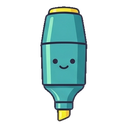
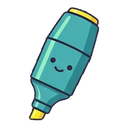
feat: Update mascot images and enhance UI elements in sidebar

Changed region(s): [[0.2188, 0.0312, 0.7812, 0.9688]]

diff --git a/vite-extension/tests/e2e/penny-mascot-artwork.spec.js b/vite-extension/tests/e2e/penny-mascot-artwork.spec.js
@@ -1,0 +1,53 @@
+// @ts-check
+/**
+ * E2E coverage for the Penny mascot artwork wired into the sidebar UI
+ * (onboarding modal, both empty states, and the delete-confirmation modal).
+ * Not tied to a numbered harness feature — it's a branding asset swap — but
+ * each spot is a new <img> in real DOM (sidebar.html/vista.js/sidebar.js/
+ * modal.js), so per CLAUDE.md's testing rule it gets real specs instead of
+ * only a manual check: only a real extension page proves Vite/CRXJS actually
+ * resolved and shipped each asset path, which Vitest/jsdom never loads.
+ */
+import { test, expect } from "./fixtures.js";
+
+/** Asserts an <img> inside `locator` is visible and actually loaded a real image. */
+async function expectLoadedImage(locator) {
+  await expect(locator).toBeVisible();
+  const naturalWidth = await locator.evaluate(
+    (img) => /** @type {HTMLImageElement} */ (img).naturalWidth
+  );
+  expect(naturalWidth).toBeGreaterThan(0);
+}
+
+test.beforeEach(async ({ page, extensionId }) => {
+  await page.goto(`chrome-extension://${extensionId}/src/sidebar.html`);
+});
+
+test("onboarding modal renders the confused-Penny mascot", async ({ page }) => {
+  // fixtures.js auto-dismisses the modal that opens on first visit; reopen
+  // it deliberately via the rail's "?" button.
+  await page.locator("#onboarding-help-btn").click();
+  const dialog = page.locator("#onboarding-modal");
+  await expect(dialog).toBeVisible();
+  await expectLoadedImage(dialog.locator(".onboarding-mascot"));
+});
+
+test("no-contexts empty state renders the waving-Penny mascot", async ({ page }) => {
+  // Fresh profile: chrome.storage.local starts with `contexts: {}`.
+  await expectLoadedImage(page.locator("#body .state-mascot"));
+  await expect(page.locator("#body .title")).toHaveText("Sin contextos todavía");
+});
+
+test("empty-context vista renders the drawing-Penny mascot", async ({ page }) => {
+  await page.locator("#rail-add").click();
+  await expectLoadedImage(page.locator("#body .state-mascot"));
+  await expect(page.locator("#body .title")).toHaveText("Contexto vacío");
+});
+
+test("delete-confirmation modal renders the warning-Penny mascot", async ({ page }) => {
+  await page.locator("#rail-add").click();
+  await page.locator(".rail-chip-del").click();
+  const dialog = page.locator("#confirm-delete-modal");
+  await expect(dialog).toBeVisible();
+  await expectLoadedImage(dialog.locator(".modal-mascot"));
+});

diff --git a/vite-extension/src/sidebar.js b/vite-extension/src/sidebar.js
@@ -12,7 +12,8 @@
  * Data flows through chrome.storage.local, accessed via store.js (Store).
  * ---------------------------------------------------------------------------
  */
-import { createElement, Sparkles, Download, ChevronDown } from "lucide";
+import { createElement, Download, ChevronDown } from "lucide";
+import pennyWaving from "./assets/penny-waving.png";
 import { $ } from "./sidebar/dom.js";
 import { Store } from "./sidebar/store.js";
 import { initTheme } from "./sidebar/theme.js";
@@ -217,18 +218,17 @@ async function renderMain() {
     ctxHeader.hidden = true;
     const stateEl = document.createElement("div");
     stateEl.className = "state";
-    const glyph = document.createElement("div");
-    glyph.className = "glyph";
-    const sparklesIcon = createElement(Sparkles, { width: 20, height: 20 });
-    sparklesIcon.style.pointerEvents = "none";
-    glyph.appendChild(sparklesIcon);
+    const mascot = document.createElement("img");
+    mascot.className = "state-mascot";
+    mascot.src = pennyWaving;
+    mascot.alt = "";
     const stateTitle = document.createElement("div");
     stateTitle.className = "title";
     stateTitle.textContent = "Sin contextos todavía";
     const stateHint = document.createElement("div");
     stateHint.className = "hint";
     stateHint.textContent = 'Crea uno con "+" o resalta texto en una página.';
-    stateEl.append(glyph, stateTitle, stateHint);
+    stateEl.append(mascot, stateTitle, stateHint);
     bodyEl.innerHTML = "";
     bodyEl.appendChild(stateEl);
     return;

diff --git a/vite-extension/src/sidebar.css b/vite-extension/src/sidebar.css
@@ -328,16 +328,11 @@ body {
 
 /* ===== Empty / status state ===== */
 .state { padding: 28px 18px; text-align: center; color: var(--fg-2); }
-.state .glyph {
-  width: 40px;
-  height: 40px;
-  border-radius: 10px;
-  background: var(--accent-soft);
-  color: var(--accent);
-  display: grid;
-  place-items: center;
+.state-mascot {
+  display: block;
+  width: auto;
+  height: 88px;
   margin: 0 auto 10px;
-  font-size: 20px;
 }
 .state .title { font-weight: 700; color: var(--fg); margin-bottom: 4px; }
 .state .hint { font-size: 12px; }
@@ -549,11 +544,18 @@ body {
 #confirm-delete-modal::backdrop {
   background: rgba(0, 0, 0, 0.35);
 }
+.modal-mascot {
+  display: block;
+  width: auto;
+  height: 64px;
+  margin: 0 auto 10px;
+}
 .modal-question {
   margin: 0 0 16px;
   font-size: 13.5px;
   line-height: 1.45;
   color: var(--fg);
+  text-align: center;
 }
 .modal-ctx-name {
   font-weight: 700;
@@ -585,8 +587,19 @@ body {
 #onboarding-modal::backdrop {
   background: rgba(0, 0, 0, 0.35);
 }
-.onboarding-title {
+.onboarding-header {
+  display: flex;
+  align-items: center;
+  gap: 10px;
   margin: 0 0 10px;
+}
+.onboarding-mascot {
+  width: 56px;
+  height: auto;
+  flex: 0 0 auto;
+}
+.onboarding-title {
+  margin: 0;
   font-size: 15px;
   font-weight: 800;
   color: var(--fg);

diff --git a/vite-extension/src/sidebar/vista.js b/vite-extension/src/sidebar/vista.js
@@ -17,25 +17,25 @@
  *    onDirty()       — called on the first 'input' event (debounce in flight).
  *    onClean()       — called after each successful save.
  */
-import { createElement, NotebookPen, ExternalLink } from "lucide";
+import { createElement, ExternalLink } from "lucide";
 import { Store } from "./store.js";
 import { renderMarkdown } from "./markdown.js";
+import pennyDrawing from "../assets/penny-drawing.png";
 
 function emptyState() {
   const s = document.createElement("div");
   s.className = "state";
-  const glyph = document.createElement("div");
-  glyph.className = "glyph";
-  const icon = createElement(NotebookPen, { width: 20, height: 20 });
-  icon.style.pointerEvents = "none";
-  glyph.appendChild(icon);
+  const mascot = document.createElement("img");
+  mascot.className = "state-mascot";
+  mascot.src = pennyDrawing;
+  mascot.alt = "";
   const title = document.createElement("div");
   title.className = "title";
   title.textContent = "Contexto vacío";
   const hint = document.createElement("div");
   hint.className = "hint";
   hint.textContent = 'Resalta texto en una página y pulsa "+" para llenarlo.';
-  s.append(glyph, title, hint);
+  s.append(mascot, title, hint);
   return s;
 }
 

diff --git a/vite-extension/src/sidebar.html b/vite-extension/src/sidebar.html
@@ -29,6 +29,7 @@
     </div>
 
     <dialog id="confirm-delete-modal" aria-modal="true" aria-labelledby="modal-question">
+      <img class="modal-mascot" src="./assets/penny-warning.png" alt="" />
       <p id="modal-question" class="modal-question">
         ¿Eliminar <strong class="modal-ctx-name"></strong>?
       </p>
@@ -43,9 +44,16 @@
       aria-modal="true"
       aria-labelledby="onboarding-title"
     >
-      <h2 id="onboarding-title" class="onboarding-title">
-        Lectura activa: cómo funciona
-      </h2>
+      <div class="onboarding-header">
+        <img
+          class="onboarding-mascot"
+          src="./assets/penny-confused.png"
+          alt=""
+        />
+        <h2 id="onboarding-title" class="onboarding-title">
+          Lectura activa: cómo funciona
+        </h2>
+      </div>
       <p class="onboarding-intro">
         La lectura activa es una forma de leer en la que no solo marcas
         texto, sino que decides qué rol juega cada fragmento mientras lees:

diff --git a/vite-extension/src/sidebar/editor.js b/vite-extension/src/sidebar/editor.js
@@ -16,6 +16,7 @@
  */
 import { Store } from "./store.js";
 import { escapeHtml } from "./dom.js";
+import pennySad from "../assets/penny-sad.png";
 
 export function createEditorController() {
   let editor = null;
@@ -100,7 +101,9 @@ export function createEditorController() {
     } catch (err) {
       console.error("[ContextHighlighter] Monaco failed:", err);
       host.innerHTML =
-        '<div class="state"><div class="title">No se pudo cargar el editor</div>' +
+        '<div class="state">' +
+        `<img class="state-mascot" src="${pennySad}" alt="" />` +
+        '<div class="title">No se pudo cargar el editor</div>' +
         '<div class="hint">Verifica la carpeta vendor/monaco.</div></div>';
     }
   }
